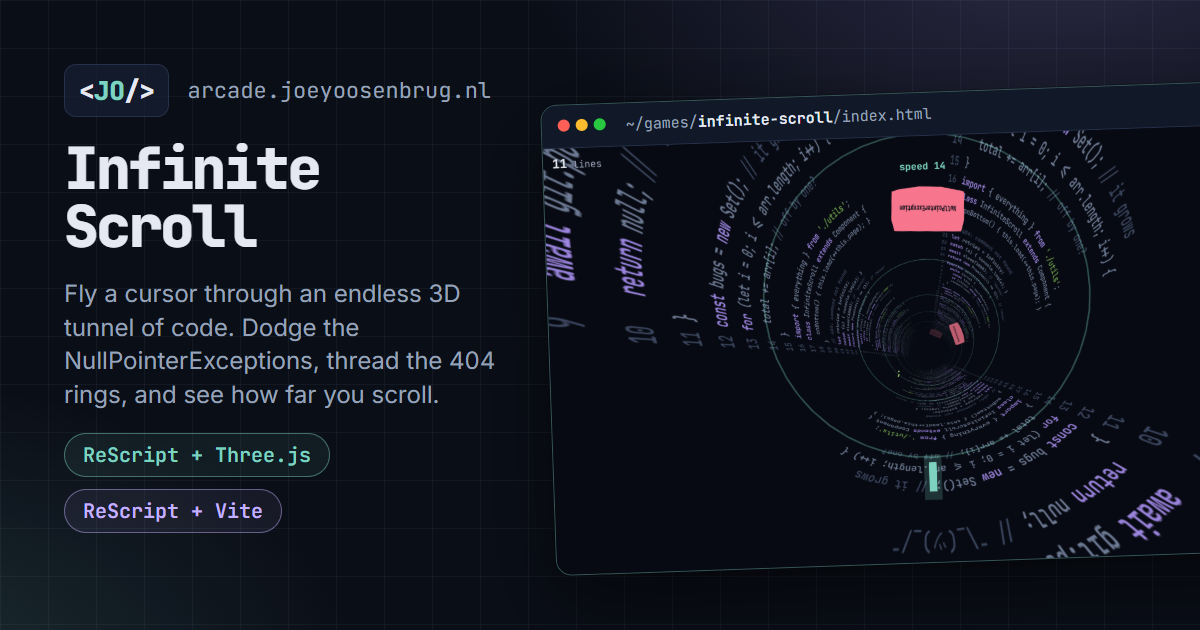
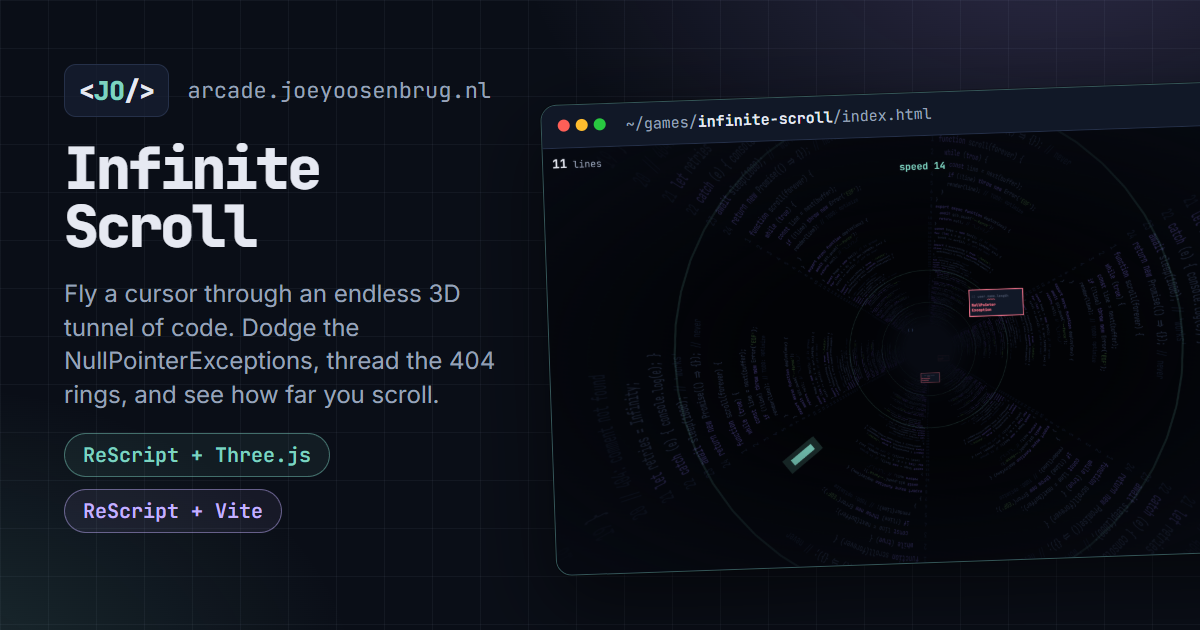
Make Infinite Scroll calm to watch, and its obstacles real code
It made people queasy: the whole tunnel spun around you when you
steered, the camera rolled, and big code streamed past at the edges.
Now the camera never moves: you travel around the rim instead (like
Tempest). The field of view is narrower, the wall text smaller and
dimmer, a vignette keeps the edges of the screen quiet, pickups no
longer bob, and with "reduce motion" on the walls stand still.

The obstacles are now code instead of colored bands with a word:
an editor panel with user.name.length and a red squiggle for the
NullPointerException (it stays upright), and arcs of text that follow
the circle for fetch('/api') // 404 Not Found, // TODO: fix this later
and while (true) {.

diff --git a/games/infinite-scroll/src/style.css b/games/infinite-scroll/src/style.css
@@ -5,10 +5,13 @@
   color-scheme: dark;
   --page: #0a0e17;
   --c-bg: #070a12;
-  --c-code: #6f7c96;
-  --c-keyword: #9d86e0;
-  --c-str: #6f9e4f;
-  --c-comment: #3c4760;
+  /* the wall code is dim on purpose: the obstacles should stand out, not the moving walls */
+  --c-code: #4f5a72;
+  --c-keyword: #6f5fa8;
+  --c-str: #4f7040;
+  --c-comment: #2c3548;
+  --c-panel: #111827;
+  --c-wall-tint: #8a8f99;
   --c-accent: #7dd3c0;
   --c-accent2: #c3b1ff;
   --c-danger: #f7768e;
@@ -25,10 +28,12 @@
   color-scheme: light;
   --page: #f4f6fb;
   --c-bg: #f7f8fc;
-  --c-code: #8b95ab;
-  --c-keyword: #9b7fe8;
-  --c-str: #6e9e56;
-  --c-comment: #c3cad8;
+  --c-code: #aeb6c7;
+  --c-keyword: #bba9f0;
+  --c-str: #9dc28b;
+  --c-comment: #d9dee8;
+  --c-panel: #ffffff;
+  --c-wall-tint: #ffffff;
   --c-accent: #0f766e;
   --c-accent2: #6d4fd6;
   --c-danger: #c0364d;
@@ -76,8 +81,19 @@ canvas {
   height: 100%;
 }
 
+/* A dark vignette: the edges of your view are where motion makes people queasy, so they stay quiet */
+.stage::after {
+  content: '';
+  position: absolute;
+  inset: 0;
+  z-index: 1;
+  pointer-events: none;
+  background: radial-gradient(ellipse at center, transparent 30%, color-mix(in srgb, var(--c-bg) 96%, transparent) 95%);
+}
+
 .hud {
   position: absolute;
+  z-index: 2;
   inset: 0 0 auto;
   display: flex;
   justify-content: space-between;
@@ -105,6 +121,7 @@ canvas {
 
 .overlay {
   position: absolute;
+  z-index: 3;
   inset: 0;
   display: grid;
   place-content: center;
